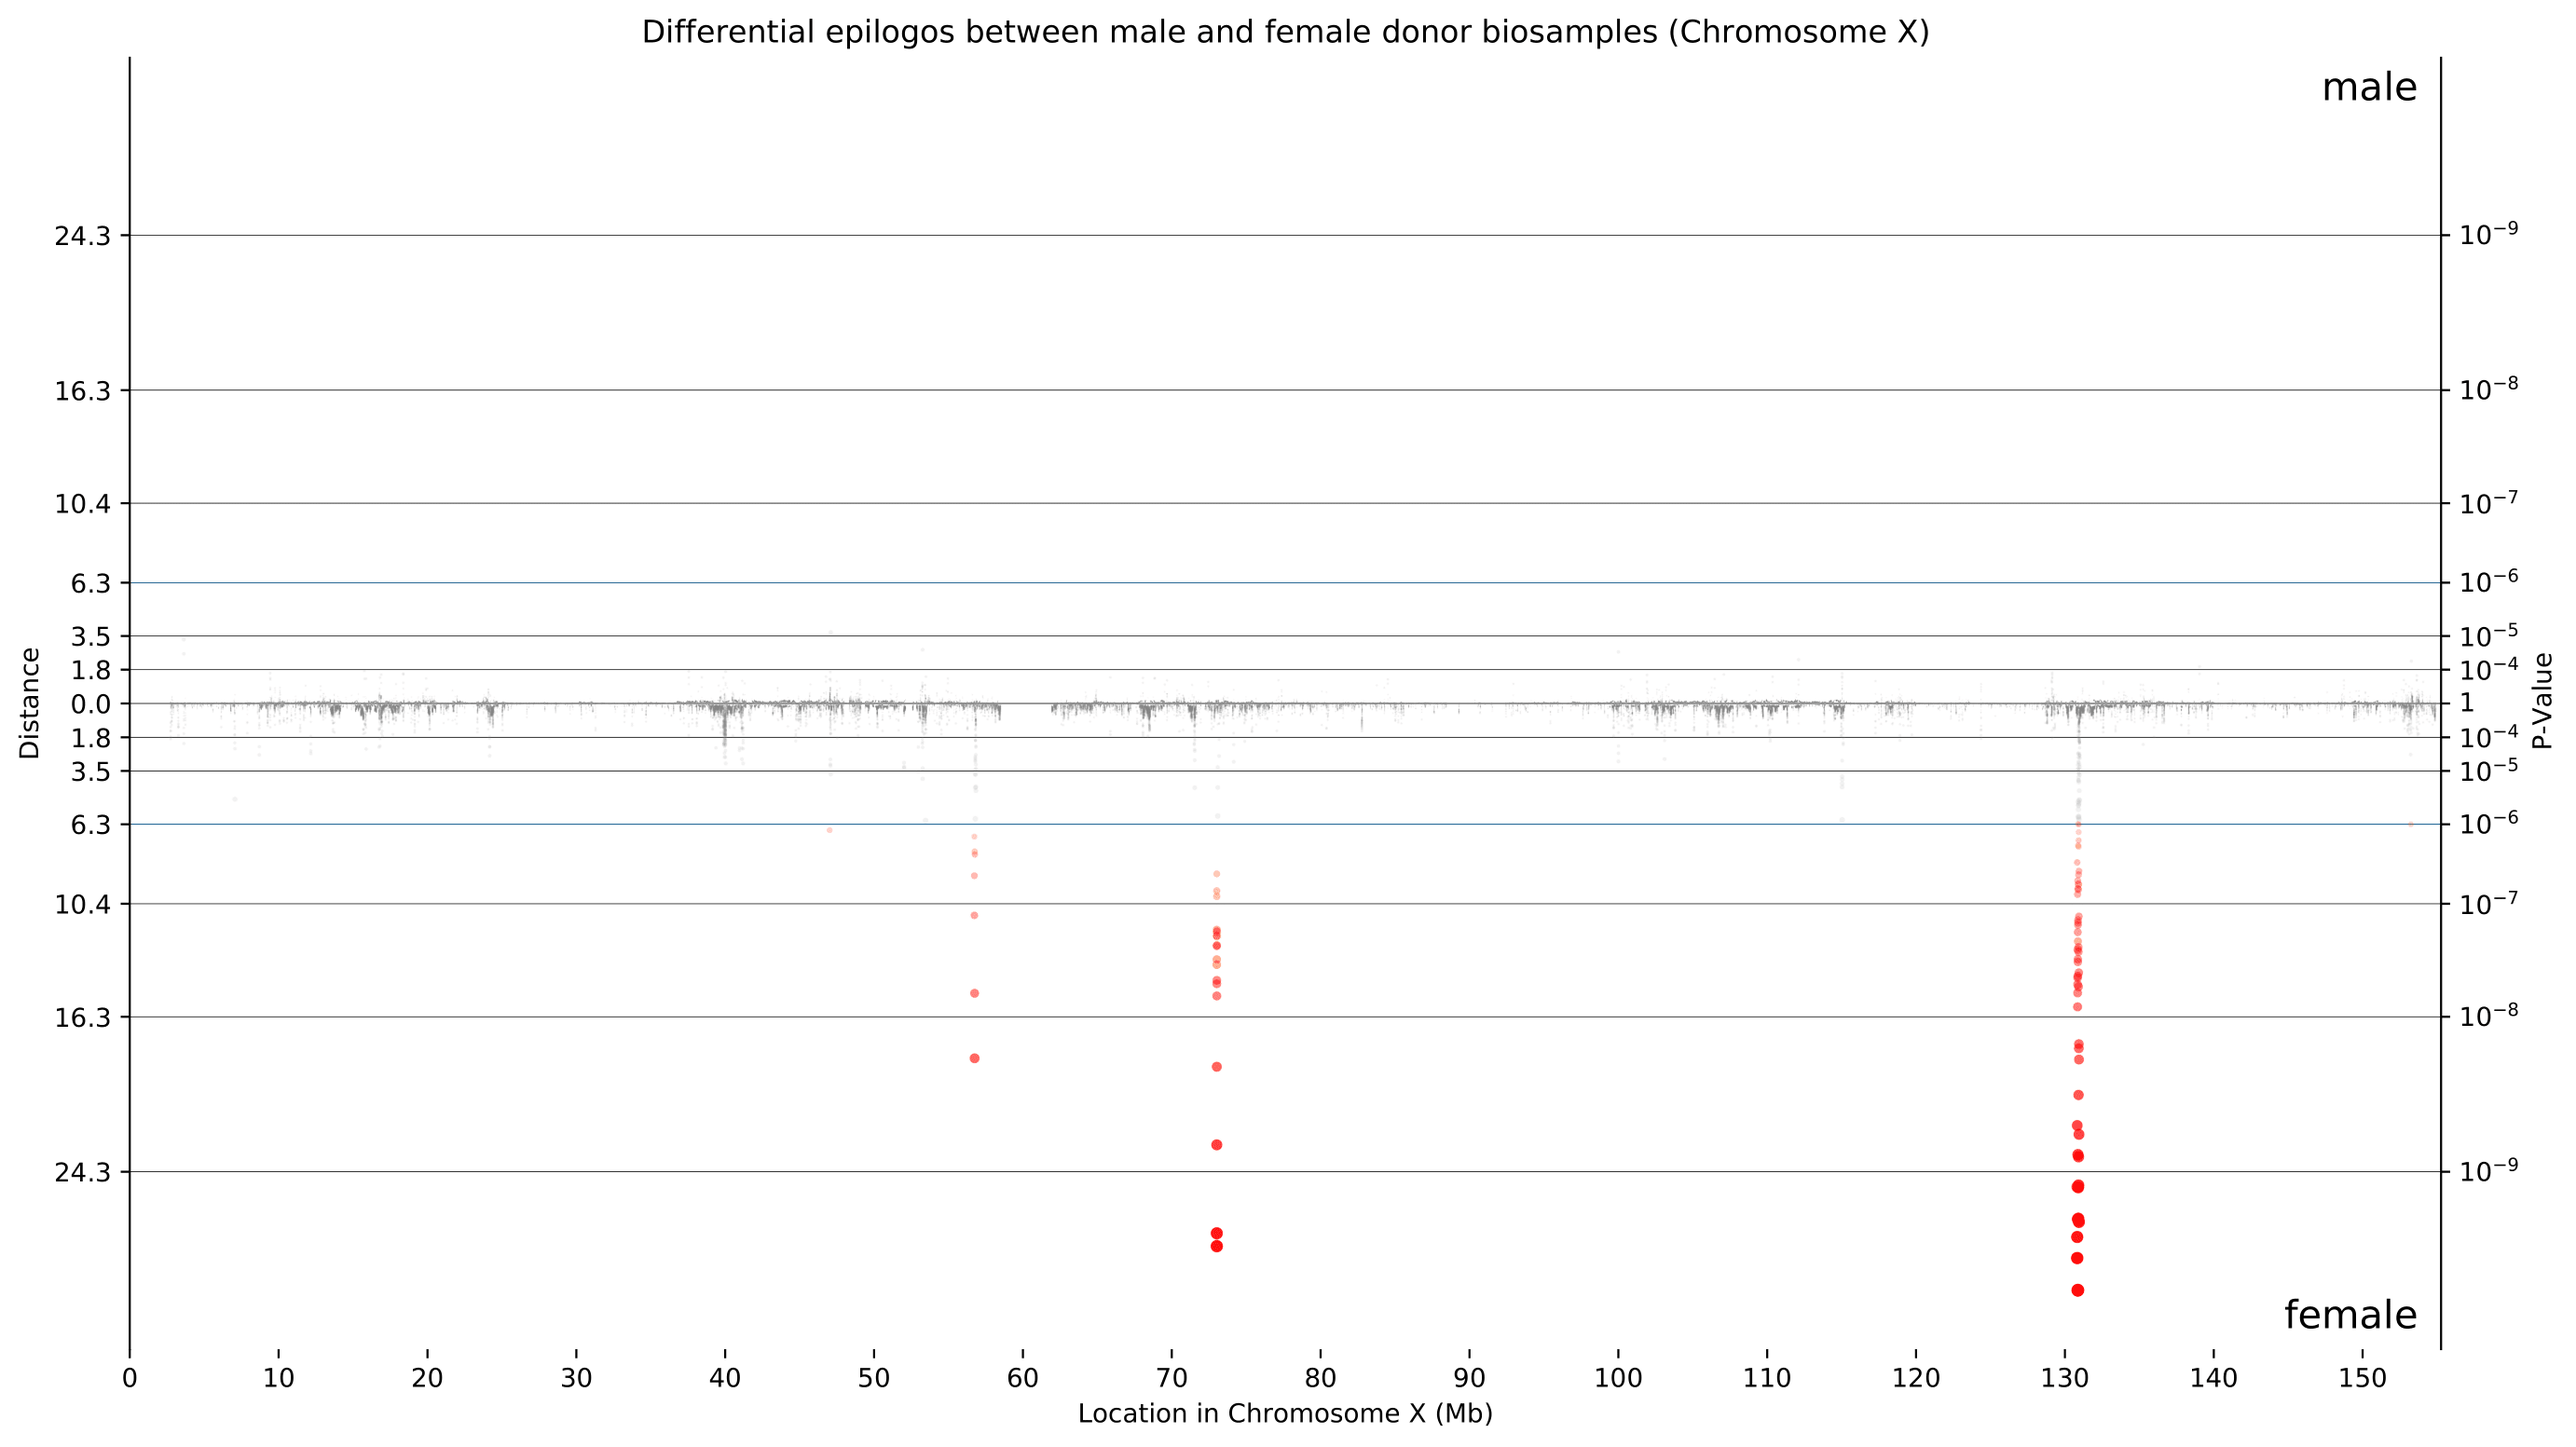
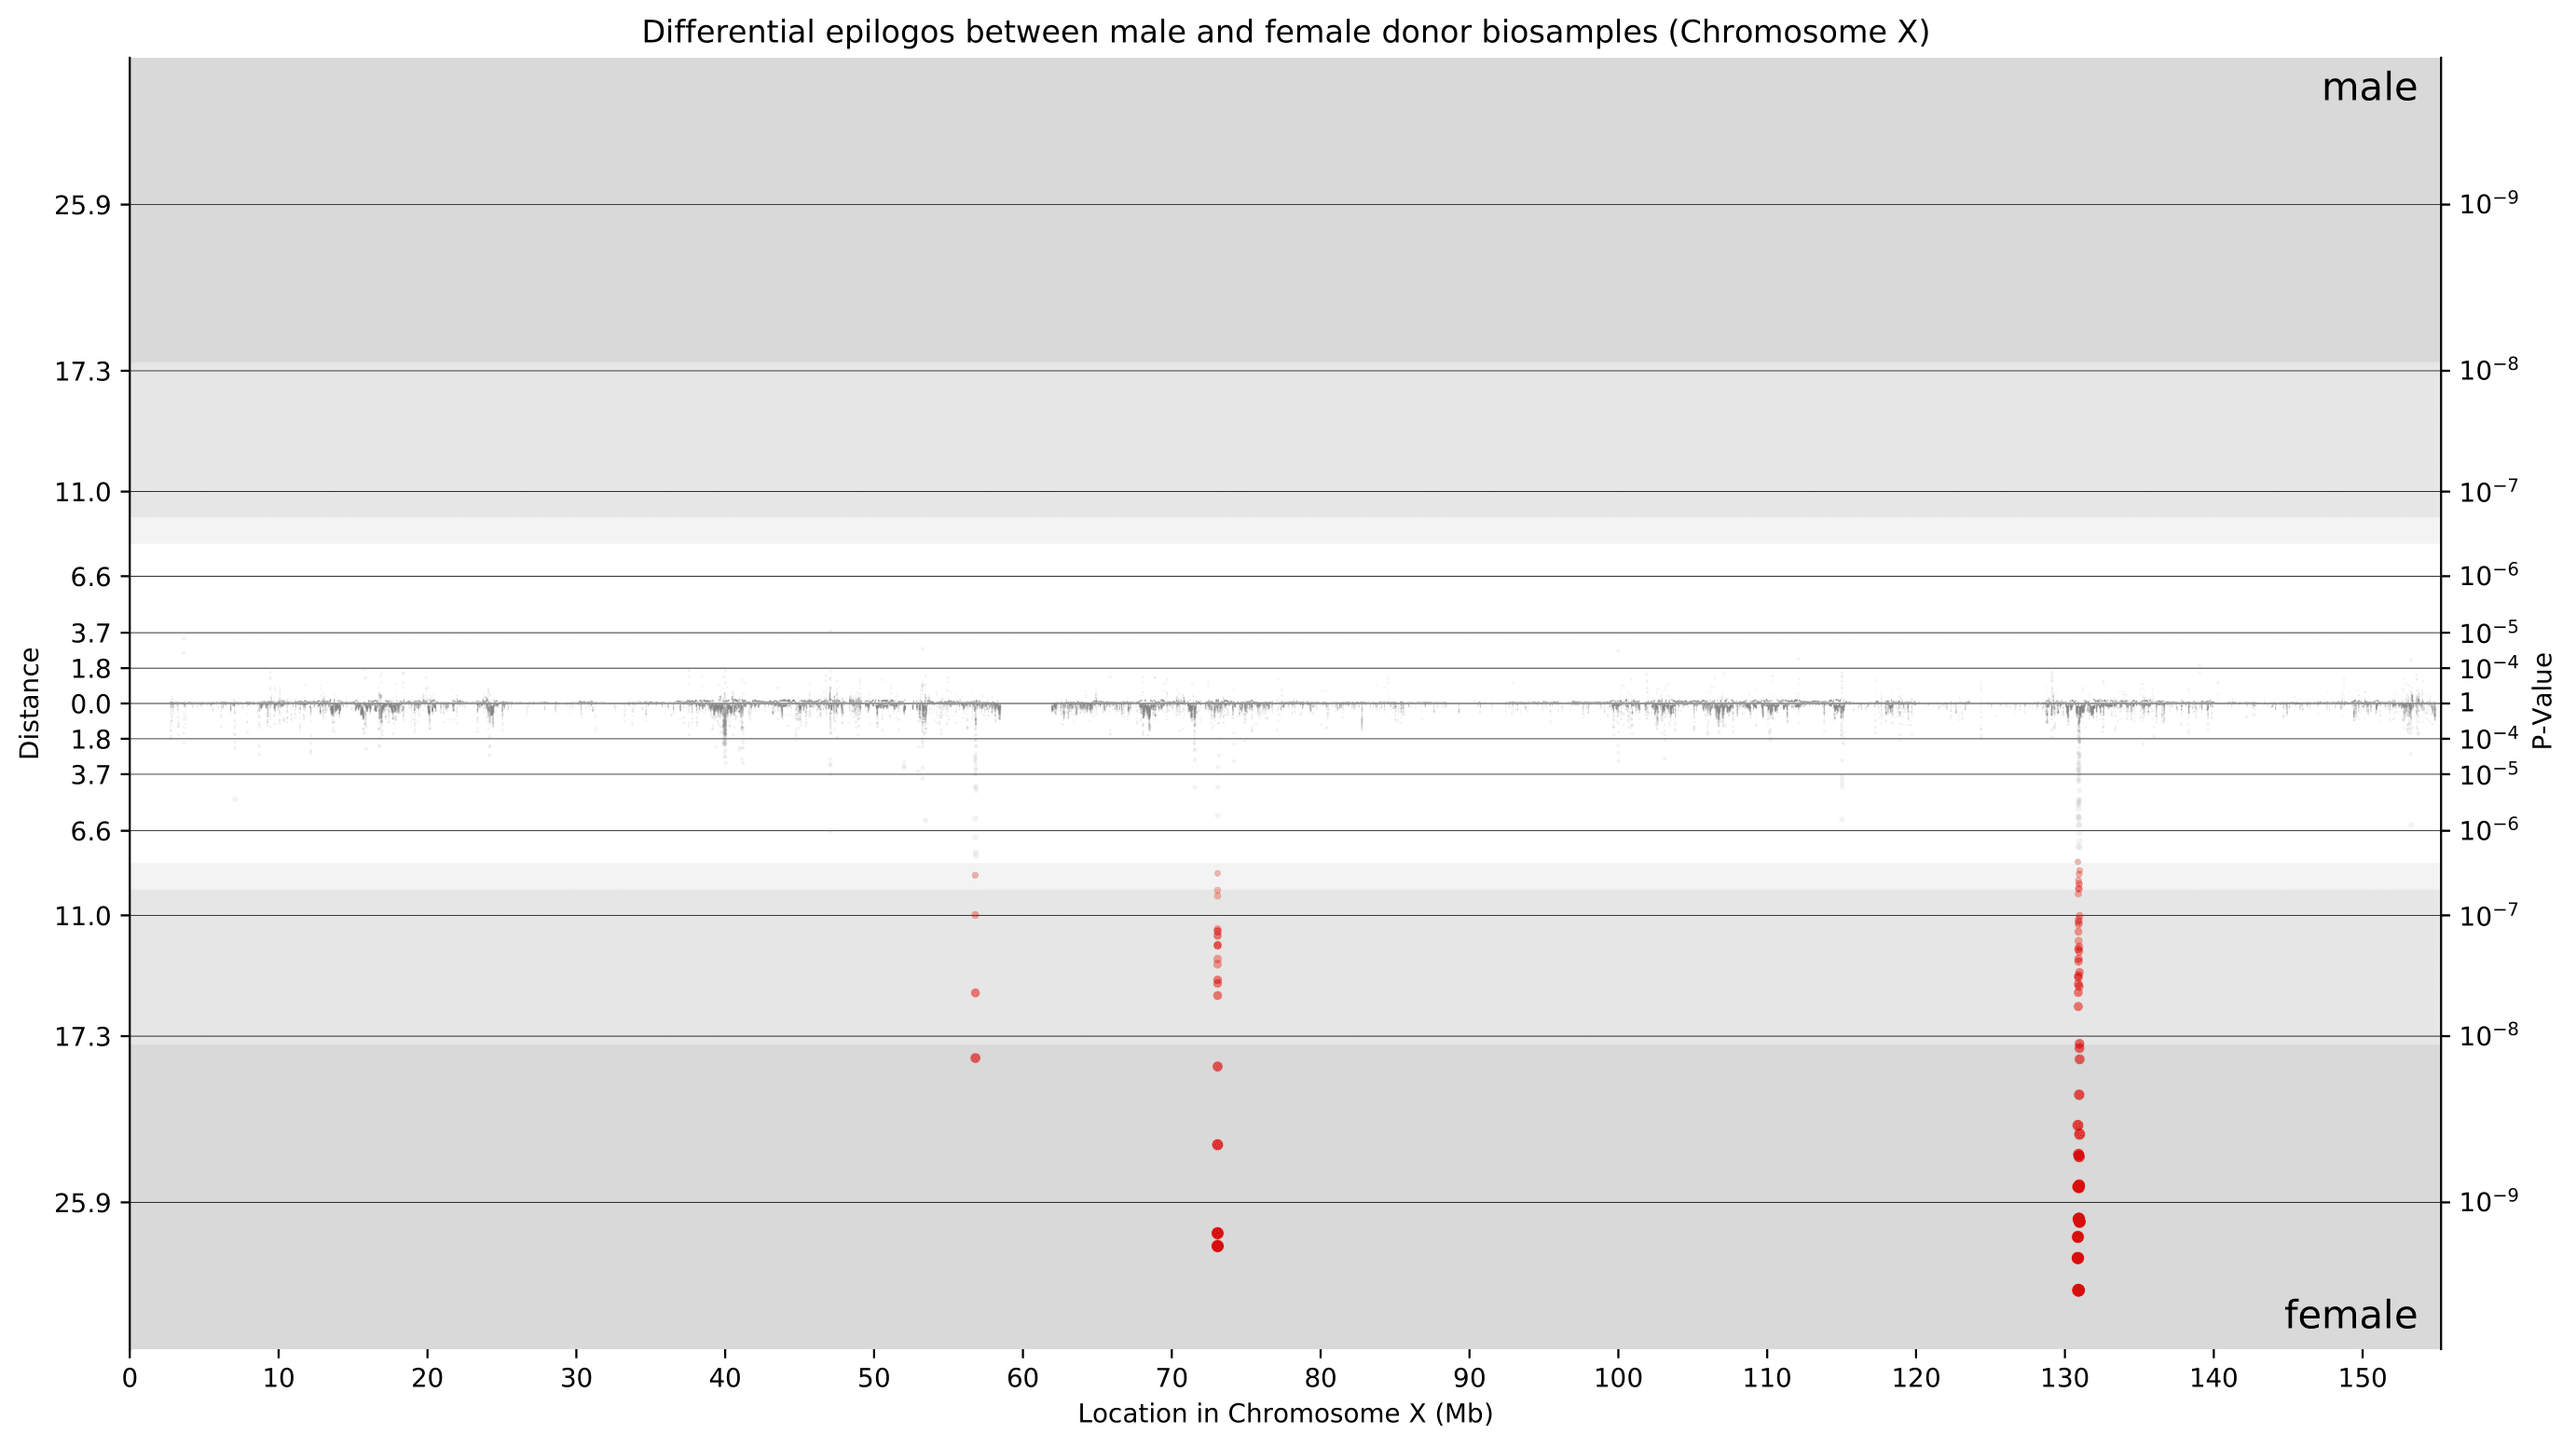
new manhattan plots

diff --git a/README.md b/README.md
@@ -606,7 +606,7 @@ e.g. $ epilogos -q 0
 
 ## Visual Output
 
-Unlike single group Epilogos, pairwise Epilogos has a visual componenet in the form of manhattan plots. Found in the <code>manhattanPlots_*</code> output directory, these plots offer users a way to visually locate differences between two groups. These plots color in any points deemed to be significant above a threshold of 0.1 (after apply the Benjamini-Hochberg Procedure) according to the colors specifed in the [state info tsv](#state-info) provided by the user. Additionally, points have varying opacity determined by the ratio of their distance to the largest distance. 
+Unlike single group Epilogos, pairwise Epilogos has a visual componenet in the form of manhattan plots. Found in the <code>manhattanPlots_*</code> output directory, these plots offer users a way to visually locate differences between two groups. These plots color in any points deemed to be significant above a threshold of 0.1 (after apply the Benjamini-Hochberg Procedure) according to the colors specifed in the [state info tsv](#state-info) provided by the user. The background color represents the level of significance. White means insignificant and the shades of gray mean significant at 0.1, 0.05, and 0.01 (with darker being more significant). Additionally, points have varying opacity determined by the ratio of their distance to the largest distance. 
 
 In the example plot below, we have a genome-wide manhattan plot generated by a pairwise Epilogos run of male donors vs female donors in the [BOIX dataset](https://docs.google.com/spreadsheets/d/103XbiwChp9sJhUXDJr9ztYEPL00_MqvJgYPG-KZ7WME/edit#gid=1813267486). It immediately becomes clear that the vast majority of differences between male and female genomes is in the X chromosome.
 
